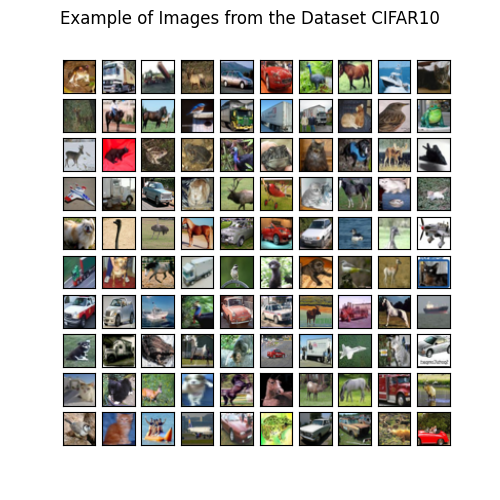
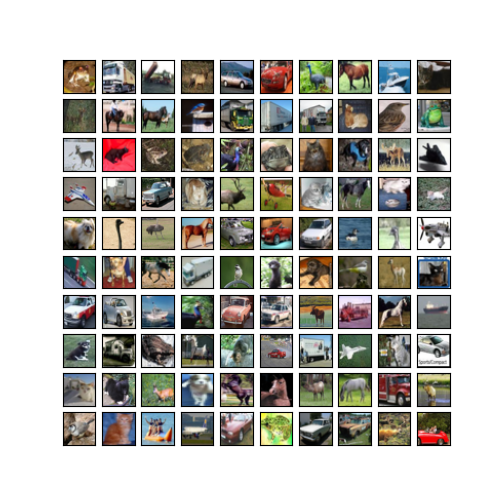
should be done

diff --git a/stats.py b/stats.py
@@ -48,7 +48,7 @@ def plot_image_grid(dataset: str = 'mnist', num_row: int = 10, num_col: int = 10
         if image.shape[2] == 1:
             image = image.squeeze(2)  # (H, W, 1) -> (H, W) pour les images en niveaux de gris
         ax.imshow(image)
-    plt.suptitle(f"Example of Images from the Dataset {tdataset.__class__.__name__}")
+    #plt.suptitle(f"Example of Images from the Dataset {tdataset.__class__.__name__}")
     if save:
         plt.savefig(f"report/images/{tdataset.__class__.__name__}_image_grid.png")
     plt.show()

diff --git a/main.py b/main.py
@@ -320,7 +320,7 @@ def run_inference(
         ax.set_xticks([])
         ax.set_yticks([])
         ax.imshow(image)
-    plt.suptitle(f"Generated images for class '{class_name}' with s={s}")
+    #plt.suptitle(f"Generated images for class '{class_name}' with s={s}")
     
     # ensure directory exists
     if not os.path.exists("./report/images"):

diff --git a/report/chapter7_classifier_free.md b/report/chapter7_classifier_free.md
@@ -344,49 +344,47 @@ L'implémentation a été réalisée en PyTorch, et se base sur une implémentat
 
 \subsection{Qualité de la génération inconditionnelle/conditionnelle sur MNIST}
 
-Nous avons évalué la qualité de la génération à la fois en mode inconditionnel (sans conditionnement de classe, $s=-1$) et en mode conditionnel (avec conditionnement de classe, $s=0$), en générant des échantillons à partir du modèle entraîné. 
-
-La figure \ref{fig:cfg_results} présente ces résultats.
+Nous avons évalué la qualité de la génération à la fois en mode inconditionnel (sans conditionnement de classe, $s=-1$) et en mode conditionnel (avec conditionnement de classe, pour la classe 5, $s=0$), en générant des échantillons à partir du modèle entraîné. 
 
 \begin{figure}[htbp]
     \centering
-    \begin{subfigure}[b]{0.23\textwidth}
+    \begin{subfigure}[b]{0.25\textwidth}
         \centering
         \includegraphics[width=\textwidth]{images/guided_unet_5___five_s-1.0.png}
-        \caption{$s=-1$}
+        \caption{Classe $\emptyset$ | $s=-1$}
         \label{fig:cfg_uncond}
     \end{subfigure}%
     \hfill
-    \begin{subfigure}[b]{0.23\textwidth}
+    \begin{subfigure}[b]{0.25\textwidth}
         \centering
         \includegraphics[width=\textwidth]{images/guided_unet_5___five_s-0.5.png}
-        \caption{$s=-0.5$}
+        \caption{Classe 5 | $s=-0.5$}
         \label{fig:cfg_uncond_cond}
     \end{subfigure}%
     \hfill
-    \begin{subfigure}[b]{0.23\textwidth}
+    \begin{subfigure}[b]{0.25\textwidth}
         \centering
         \includegraphics[width=\textwidth]{images/guided_unet_5___five_s0.0.png}
-        \caption{$s=0$}
+        \caption{Classe 5 | $s=0$}
         \label{fig:cfg_cond0}
     \end{subfigure}%
     \hfill
-    \begin{subfigure}[b]{0.23\textwidth}
+    \begin{subfigure}[b]{0.25\textwidth}
         \centering
-        \includegraphics[width=\textwidth]{images/guided_unet_5___five_s3.0.png}
-        \caption{$s=3$}
-        \label{fig:cfg_cond3}
+        \includegraphics[width=\textwidth]{images/guided_unet_5___five_s10.0.png}
+        \caption{Classe 5 | $s=10$}
+        \label{fig:cfg_cond10}
     \end{subfigure}
-    
+
     \caption{Exemples d'images générées par un DDPM avec Classifier-Free Guidance (classe 5).}
     \label{fig:cfg_results}
 \end{figure}
 
-La figure \ref{fig:cfg_results} montre que le modèle est capable de générer des images réalistes à la fois en mode inconditionnel (figure \ref{fig:cfg_uncond}) et en mode conditionnel (figure \ref{fig:cfg_cond0}, \ref{fig:cfg_cond3}). En mode inconditionnel, les images générées sont variées et ne correspondent pas à une classe spécifique, tandis qu'en mode conditionnel, les images générées sont clairement reconnaissables comme appartenant à la classe 5. De plus, en augmentant l'échelle de guidance ($s=3$), nous observons que les images générées sont encore plus conformes à la classe cible, au prix d'une diversité légèrement réduite.\\
+La figure \ref{fig:cfg_results} montre que le modèle est capable de générer des images réalistes à la fois en mode inconditionnel (figure \ref{fig:cfg_uncond}) et en mode conditionnel (figure \ref{fig:cfg_cond0}, \ref{fig:cfg_cond3}). En mode inconditionnel, les images générées sont variées et ne correspondent pas à une classe spécifique, tandis qu'en mode conditionnel, les images générées sont clairement reconnaissables comme appartenant à la classe 5. En augmentant encore davantage le facteur d'échelle de guidage (figure \ref{fig:cfg_cond10}, $s=10$), nous observons que les images générées sont encore plus fortement guidées vers la classe 5, mais au prix d'une perte de diversité: les images générées sont très similaires les unes aux autres, et peuvent presque sembler saturées par les caractéristiques de la classe 5 (les traits sont très épais et marqués afin de maximiser la reconnaissance de la classe 5).\\
 
 En revanche, en mode "semi"-conditionnel ($s=-0.5$), nous observons un semblant d'entre-deux, où les images générées présentent des caractéristiques de la classe 5, mais ne sont pas aussi nettes et reconnaissables que dans le mode conditionnel pur ($s=0$). Les images générées sont dans un espace intermédiaire et qui se trouve à priori ni dans la région de l'espace des images correspondant à la classe 5, ni dans la région correspondant à une génération inconditionnelle. Nous avons donc une génération qui est à la fois influencée par la classe cible, mais aussi par les caractéristiques générales des images du dataset, mais où les images perdent en qualité et en réalisme.\\
 
 \underline{Note:} Nous avons également entrainé un modèle de diffusion conditionnel avec Classifier-Free Guidance sur le dataset CIFAR-10. L'entraînement a été réalisé pendant 300 epochs, avec un batch size de 128, et une probabilité de dropout de classe de 0.2. 
-Les résultats obtenus sont donnés en annexe \ref{appendix:cfg_cifar10}, et présentent les limites du modèle, qui parvient à générer des images reconnaissables à première vue, mais qui présentent des artefacts et une qualité globale inférieure à celle obtenue sur MNIST. Si nous ne pouvons nous attendre à des images générées de très haute qualité (les images du dataset restent de taille 32x32, et donc de qualité limitée), nous pouvons néanmoins observer que le modèle est capable de générer des images qui sont reconnaissables comme appartenant à la classe cible, ce qui montre que la Classifier-Free Guidance fonctionne également sur ce dataset plus complexe.Il serait cependant pertinent de considérer une architecture plus complexe (par exemple, en augmentant la profondeur du modèle) pour améliorer la qualité des images générées sur ce dataset (ou d'autres, du type ImageNet).\\
+Les résultats obtenus sont donnés en annexe \ref{annexe:cfg_cifar10}, et présentent les limites du modèle, qui parvient à générer des images reconnaissables à première vue, mais qui présentent des artefacts et une qualité globale inférieure à celle obtenue sur MNIST. Si nous ne pouvons nous attendre à des images générées de très haute qualité (les images du dataset restent de taille 32x32, et donc de qualité limitée), nous pouvons néanmoins observer que le modèle est capable de générer des images qui sont reconnaissables comme appartenant à la classe cible, ce qui montre que la Classifier-Free Guidance fonctionne également sur ce dataset plus complexe.Il serait cependant pertinent de considérer une architecture plus complexe (par exemple, en augmentant la profondeur du modèle) pour améliorer la qualité des images générées sur ce dataset (ou d'autres, du type ImageNet).\\
 
 

diff --git a/report/annexe1_cfg.md b/report/annexe1_cfg.md
@@ -1,0 +1,64 @@
+\chapter{Classifier-Free Guidance - CIFAR10}
+\label{annexe:cfg_cifar10}
+\rhead{Classifier-Free Guidance - CIFAR10}
+
+Cette annexe présente les résultats de nos expérimentations avec la Classifier-Free Guidance (CFG) sur le dataset CIFAR10.
+
+\section*{Échantillons du jeu de données CIFAR10}
+
+\begin{figure}[H]
+    \centering
+    \includegraphics[width=0.6\textwidth]{./images/CIFAR10_image_grid.png}
+    \caption{Exemples d'images du dataset CIFAR10.}
+    \label{fig:cifar10_samples}
+\end{figure}
+
+La figure \ref{fig:cifar10_samples} présente une grille d'images extraites du dataset CIFAR10, qui contient 60 000 images de 32x32 pixels réparties en 10 classes différentes (avion, automobile, oiseau, chat, cerf, chien, grenouille, cheval, bateau et camion).
+
+\section*{Résultats de la Classifier-Free Guidance sur CIFAR10}
+
+La figure \ref{fig:cfg_results_cifar10} présente les échantillons générés par notre modèle de diffusion guidée sans classifieur (CFG) sur le dataset CIFAR10, pour différentes valeurs du paramètre de guidance $s$.
+
+\begin{figure}[htbp]
+    \centering
+    % --- Première ligne (2 images) ---
+    \begin{subfigure}[b]{0.42\textwidth}
+        \centering
+        \includegraphics[width=\textwidth]{images/guided_unet_frog_s-1.0.png}
+        \caption{Classe $\emptyset$ | $s=-1$}
+        \label{fig:cfg_uncond}
+    \end{subfigure}
+    \hfill
+    \begin{subfigure}[b]{0.42\textwidth}
+        \centering
+        \includegraphics[width=\textwidth]{images/guided_unet_frog_s-0.5.png}
+        \caption{Classe grenouille | $s=-0.5$}
+        \label{fig:cfg_uncond_cond}
+    \end{subfigure}
+
+    % --- Deuxième ligne (2 images) ---
+    \begin{subfigure}[b]{0.42\textwidth}
+        \centering
+        \includegraphics[width=\textwidth]{images/guided_unet_frog_s0.0.png}
+        \caption{Classe grenouille | $s=0$}
+        \label{fig:cfg_cond0}
+    \end{subfigure}
+    \hfill
+    \begin{subfigure}[b]{0.42\textwidth}
+        \centering
+        \includegraphics[width=\textwidth]{images/guided_unet_frog_s3.0.png} % <-- Votre nouvelle image pour s=3
+        \caption{Classe grenouille | $s=3$}
+        \label{fig:cfg_cond3}
+    \end{subfigure}
+
+    % --- Troisième ligne (1 image centrée) ---
+    \begin{subfigure}[b]{0.42\textwidth} % Même largeur pour la cohérence
+        \centering
+        \includegraphics[width=\textwidth]{images/guided_unet_frog_s10.0.png}
+        \caption{Classe grenouille | $s=10$}
+        \label{fig:cfg_cond10}
+    \end{subfigure}
+
+    \caption{Exemples d'images générées par un DDPM avec Classifier-Free Guidance (classe grenouille) pour différentes valeurs de guidance $s$.}
+    \label{fig:cfg_results_cifar10}
+\end{figure}
